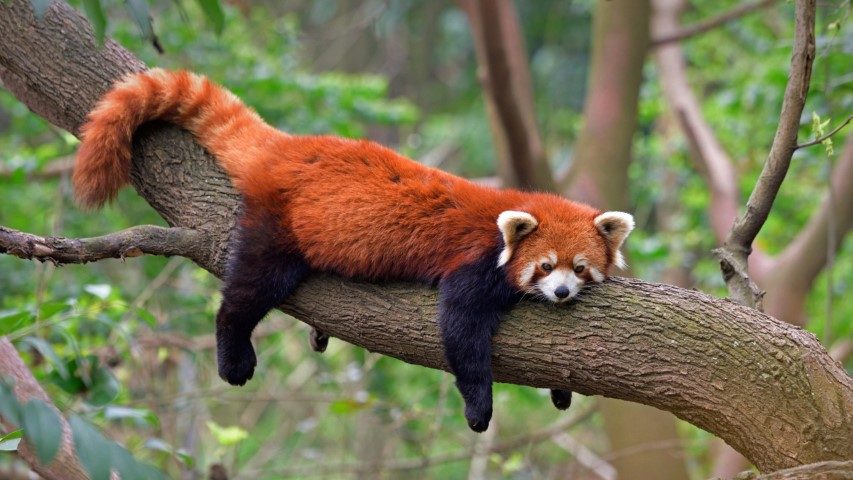
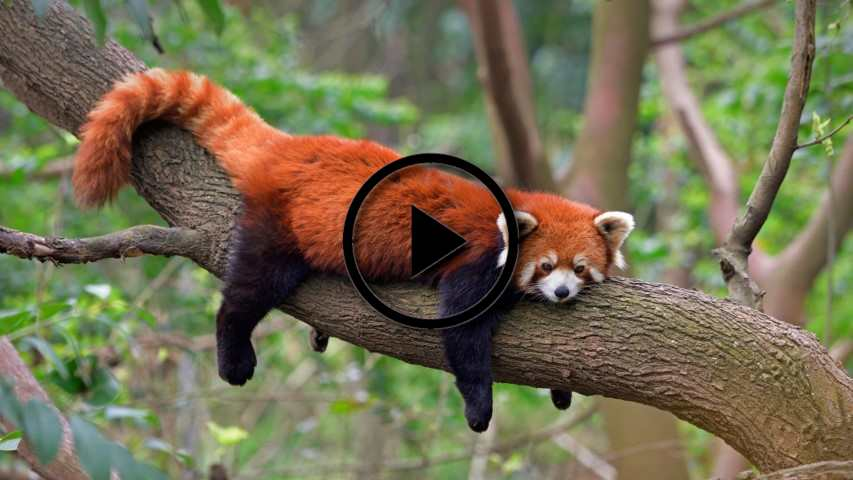
准备封面和精简js

Changed region(s): [[0.3962, 0.3125, 0.6401, 0.7188], [0.9144, 0.6875, 0.9449, 0.7188]]

diff --git a/src/dplayer-live.html b/src/dplayer-live.html
@@ -1,13 +1,13 @@
 <html>
 
 <head>
-    <time>player</time>
+    <title>player</title>
 </head>
 
 <body>
-    <h1>player</h1>
+    <!-- <h1>player</h1> -->
     <div id="dplayer"></div>
-    <script src="../node_modules/flv.js/dist/flv.js"></script>
+    <script src="../node_modules/flv.js/dist/flv.min.js"></script>
     <script src="../node_modules/dplayer/dist/DPlayer.min.js"></script>
     <script>
 

diff --git a/src/dplayer-local.html b/src/dplayer-local.html
@@ -1,12 +1,12 @@
 <html>
+
 <head>
-    <time>player</time>
+    <title>player</title>
 </head>
 
 <body>
-    <h1>player</h1>
+    <!-- <h1>player</h1> -->
     <div id="dplayer"></div>
-    <script src="../node_modules/flv.js/dist/flv.js"></script>
     <script src="../node_modules/dplayer/dist/DPlayer.min.js"></script>
     <script>
 

diff --git a/src/index.html b/src/index.html
@@ -1,0 +1,10 @@
+<html>
+
+<body>
+    <ul>
+        <li><a href="./dplayer-live.html">DPlaer直播</a></li>
+        <li><a href="./dplayer-local.html">DPlaer视频</a></li>
+    </ul>
+</body>
+
+</html>

diff --git a/src/nplayer-live.html b/src/nplayer-live.html
@@ -3,7 +3,7 @@
 </html>
 
 <head>
-    <time>player</time>
+    <title>player</title>
 </head>
 
 <body>

diff --git a/src/nplayer-local.html b/src/nplayer-local.html
@@ -3,7 +3,7 @@
 </html>
 
 <head>
-    <time>player</time>
+    <title>player</title>
 </head>
 
 <body>
